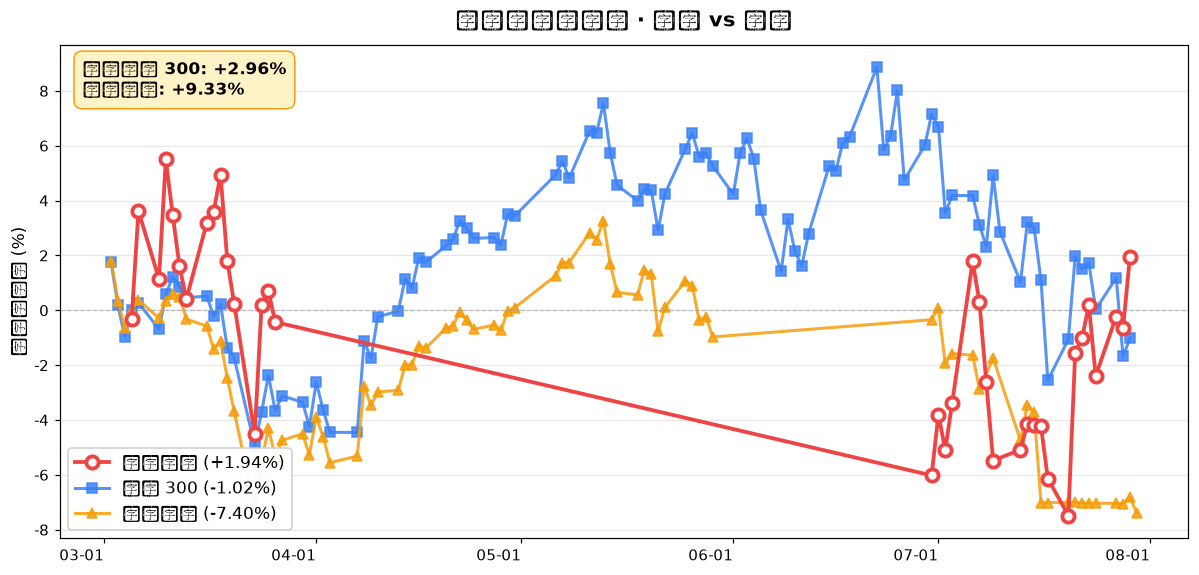
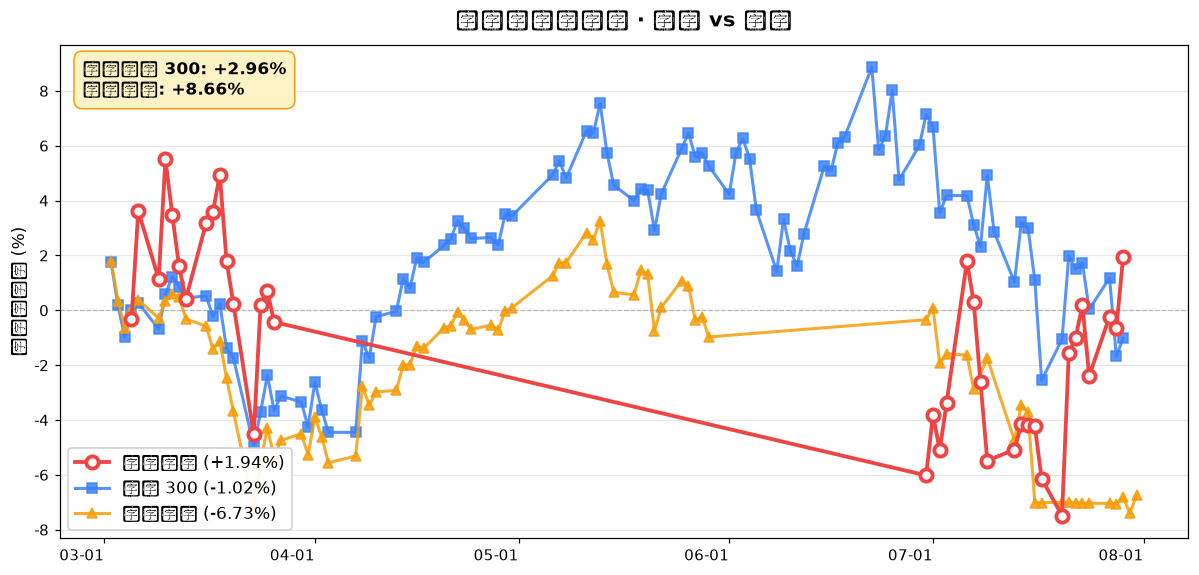
deploy dashboard 2026-07-31

diff --git a/dashboard/index.html b/dashboard/index.html
@@ -111,7 +111,7 @@
 
 <div class="header">
   <h1 data-i18n="title">📊 持仓 Dashboard</h1>
-  <div class="date">2026-07-31 · 更新于 08:21</div>
+  <div class="date">2026-07-31 · 更新于 08:38</div>
 </div>
 
 <div class="hero-pnl" style="padding:16px">
@@ -157,7 +157,7 @@
 
 <div class="excess">
         <b>🔴 跑赢 沪深 300</b>: +2.96%<br>
-        <b>🔴 跑赢 上证指数</b>: +9.33%
+        <b>🔴 跑赢 上证指数</b>: +8.66%
     </div>
 
 <div class="section">
@@ -181,18 +181,18 @@
 <div class="section"><h2>🚪 已清仓 (2 只)</h2><div style="font-size:11px;color:#9ca3af;margin-bottom:8px">
         清仓释放本金 <b>17676.50</b> 元 · 累计实现 <b style="color:#ef4444">+508.60</b> 元
     </div><div class="holding-card loss" style="border-left-color:#6b7280">
-          <div class="name">600755 <span style="color:#9ca3af;font-weight:normal">(600755) 已清仓</span></div>
-          <div class="row"><span class="k">清仓日</span><span>-</span></div>
-          <div class="row"><span class="k">成本</span><span>2220.00</span></div>
-          <div class="row"><span class="k">收回</span><span>2272.00</span></div>
-          <div class="row"><span class="k">实现盈亏</span><span class="red">+47.00 (+2.12%)</span></div>
-        </div>
-<div class="holding-card loss" style="border-left-color:#6b7280">
           <div class="name">513780 <span style="color:#9ca3af;font-weight:normal">(513780) 已清仓</span></div>
           <div class="row"><span class="k">清仓日</span><span>-</span></div>
           <div class="row"><span class="k">成本</span><span>14927.90</span></div>
           <div class="row"><span class="k">收回</span><span>15404.50</span></div>
           <div class="row"><span class="k">实现盈亏</span><span class="red">+461.60 (+3.09%)</span></div>
+        </div>
+<div class="holding-card loss" style="border-left-color:#6b7280">
+          <div class="name">600755 <span style="color:#9ca3af;font-weight:normal">(600755) 已清仓</span></div>
+          <div class="row"><span class="k">清仓日</span><span>-</span></div>
+          <div class="row"><span class="k">成本</span><span>2220.00</span></div>
+          <div class="row"><span class="k">收回</span><span>2272.00</span></div>
+          <div class="row"><span class="k">实现盈亏</span><span class="red">+47.00 (+2.12%)</span></div>
         </div></div>
 
 <div class="section">
